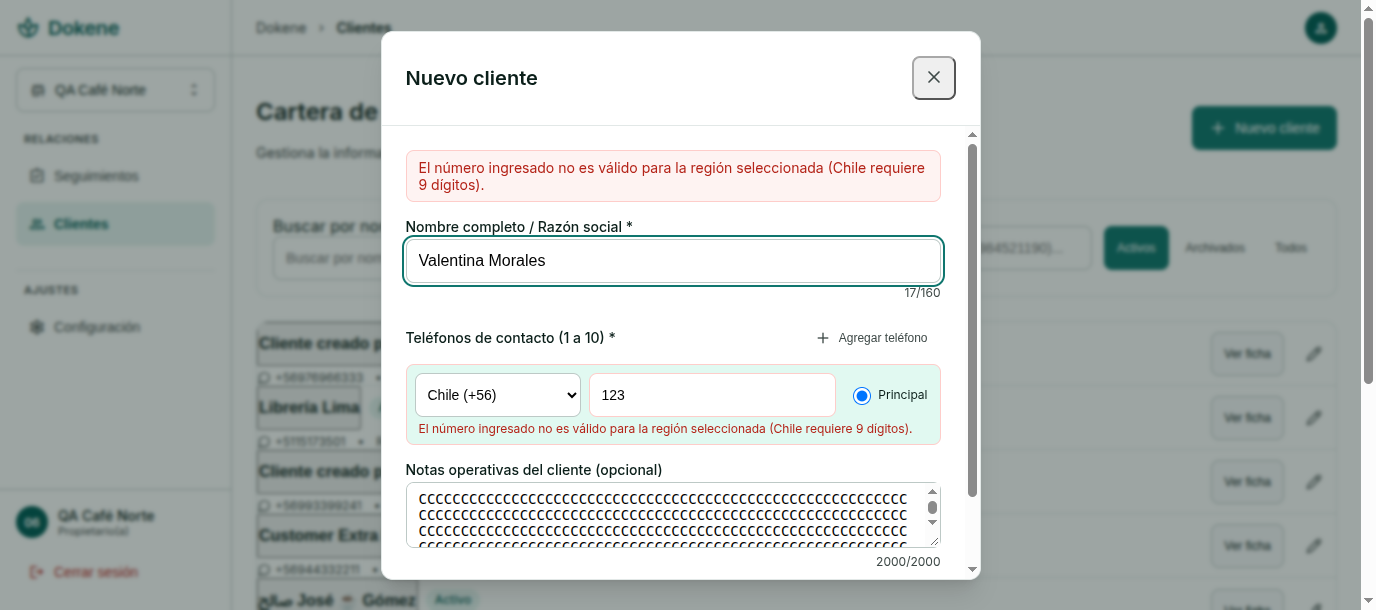
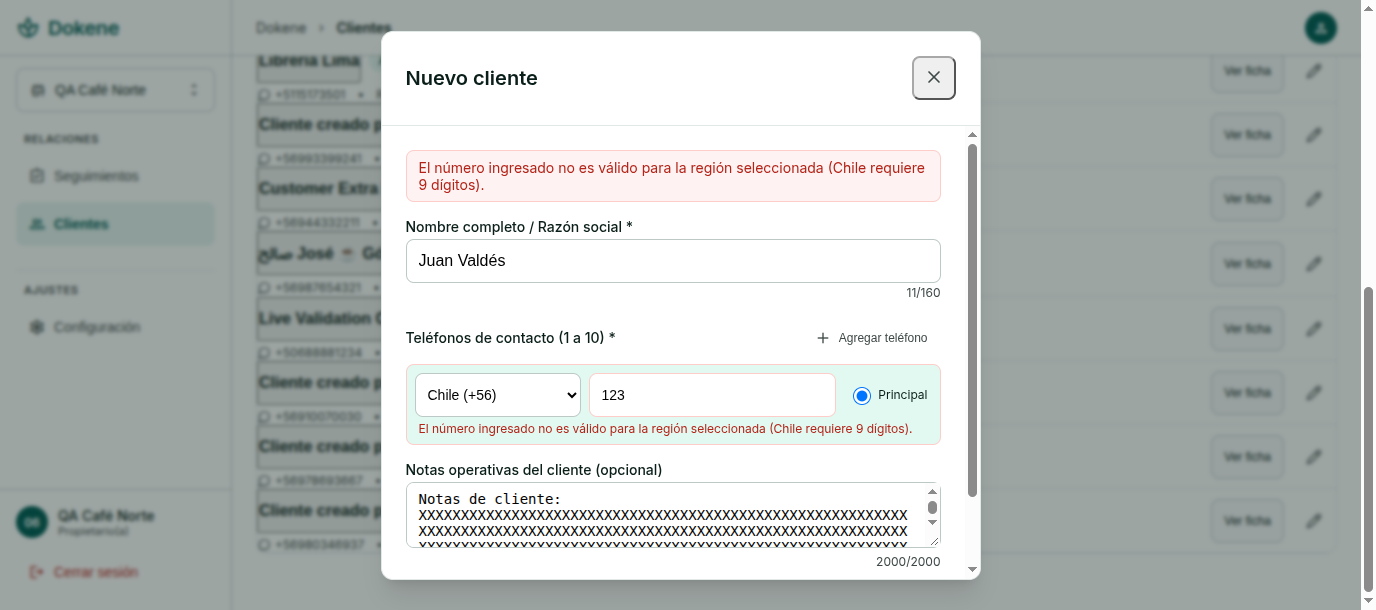
docs(qa): correct UI-08 sequential compound-invalid evidence and notes counter

diff --git a/docs/verification/issue-58-input-negative-paths-verification.md b/docs/verification/issue-58-input-negative-paths-verification.md
@@ -30,10 +30,13 @@ A total of **60 scenarios** were executed:
 ### Key Quality Observations & Verification:
 1. **Zero 500 Internal Server Errors & Zero Information Leaks**: No malformed JSON, wrong types, missing headers, SQL injection tokens, boundary values, or protocol mutations triggered an HTTP 500 error, stack trace, class name, or SQL exception in client responses.
 2. **Form Data Preservation**: Across all client validation rejections in `CustomerFormModal`, valid user-entered values (names, phone numbers, notes) remained intact in the DOM, preventing loss of work.
-3. **Compound-Invalid Scenarios & Remediation of Defect #1 (PR #73 / Issue #72)**:
-   - Previously, entering an invalid phone length for the region (e.g. `123` for Chile `+56`) resulted in a generic `"Error HTTP 400"`.
-   - In PR #73 (commit `2c4dde7`), pre-submit regional phone validation was implemented in `CustomerFormModal.tsx`.
-   - Verified on live commit `24bab9d06b`: A compound invalid submission (whitespace name + invalid phone `123` + 2000-character notes) correctly blocks submission client-side, renders an accessible field-level error linked via `aria-describedby` directly below the phone input (*"El número ingresado no es válido para la región seleccionada (Chile requiere 9 dígitos)."*), and displays the notes character counter `2000/500`. Visual proof captured in `07-compound-invalid-form-validation.png`.
+3. **Sequential Compound-Invalid Scenario & Remediation of Defect #1 (PR #73 / Issue #72)**:
+   - Evaluated the validation order and state preservation of `CustomerFormModal.tsx` in a real browser session:
+     1. Initial submission entered with whitespace-only name (`"   "`), invalid Chile phone (`123` with `+56`), and exactly 2000 characters of notes (`2000/2000`).
+     2. Form validation order halts first on empty/whitespace name (`if (!trimmedName)`), rendering top alert *"El nombre del cliente es obligatorio."* while preserving phone (`123`), notes content, and counter (`2000/2000`) in the DOM.
+     3. Correcting only the customer name to `"Juan Valdés"` while leaving the invalid phone `123` untouched and submitting again activates pre-submit regional phone validation.
+     4. Pre-submit phone validation renders an accessible field-level error linked via `aria-describedby="phone-error-0"` directly below the phone input (*"El número ingresado no es válido para la región seleccionada (Chile requiere 9 dígitos)."*), sets `aria-invalid="true"`, and preserves the corrected name, phone, notes, and counter (`2000/2000`).
+   - Visual proof captured and committed in `07-compound-invalid-form-validation.png`.
 4. **Multi-User & Membership RBAC Negative Scenarios**:
    - Tested using pre-provisioned synthetic identities (`testuser` OWNER, `testoperator` OPERATOR, `testviewer` VIEWER) in tenant `QA Café Norte`.
    - Unauthorized invite attempts by `OPERATOR` and `VIEWER` fail-closed with HTTP `403 Forbidden`.
@@ -83,7 +86,7 @@ A total of **60 scenarios** were executed:
 | **UI-05** | Customer Form | Duplicate normalized phone in same workspace (`+56987654321`) | Blocked with 409 Conflict; displays actionable conflict feedback; form data preserved | Backend returns 409 Conflict; UI renders: `Conflicto: el registro o número de contacto ya existe o está en conflicto.`; name and phone retained | **PASS** | `05-customer-duplicate-phone-conflict.png` |
 | **UI-06** | Purchases | Purchase description boundary (500 chars) & void workflow | 500-char description saved; voiding updates status to `Anulada` and recalculates latest purchase | Description accepted; void modal cleanly marks purchase as `Anulada`; latest purchase summary immediately updates to `Sin compras registradas` | **PASS** | `04-customer-unicode-success.png` |
 | **UI-07** | Follow-Up Search | Special characters & SQL injection tokens in search query (`'; DROP TABLE...`) | Handled safely via parameterized query; no errors or unhandled exceptions | UI gracefully shows empty state: `No se encontraron resultados para "'; DROP TABLE..."` | **PASS** | `06-followup-safe-query-handling.png` |
-| **UI-08** | Compound Form | Whitespace name + invalid phone (`123` for Chile `+56`) + 2000 chars notes | Multiple field errors identified simultaneously; accessible error linked via `aria-describedby`; form data retained | Pre-submit validation blocks request. Field-level error appears below phone input (*"El número ingresado no es válido para la región seleccionada (Chile requiere 9 dígitos)."*). Character counter displays `2000/500`. Work preserved. | **PASS** *(Fix for #72 verified)* | `07-compound-invalid-form-validation.png` |
+| **UI-08** | Sequential Compound Form | (1) Whitespace name (`"   "`) + invalid Chile phone (`123`) + 2000 chars notes; (2) Correct name to `"Juan Valdés"`, leaving phone `123` unchanged | Initial submission halts on name requirement and preserves phone & notes; second submission halts on regional phone format, displaying inline error linked via `aria-describedby` while preserving all inputs and counter (`2000/2000`) | Step 1: Blocks with alert `El nombre del cliente es obligatorio.`; phone `123` and notes preserved. Step 2: Phone field displays inline `aria-describedby="phone-error-0"` error (*"El número ingresado no es válido para la región seleccionada (Chile requiere 9 dígitos)."*); counter shows `2000/2000`. No data lost. | **PASS** *(Fix for #72 verified)* | `07-compound-invalid-form-validation.png` |
 
 ---
 
@@ -162,10 +165,10 @@ Executed against live environment at commit `24bab9d06b83d64185136adc6961a69b5f5
 - **Resolution**: Tracked in [Issue #72](https://github.com/stevdrey/dokene/issues/72) and fixed in [PR #73](https://github.com/stevdrey/dokene/pull/73) (`2c4dde7`).
 - **Verification on main (`24bab9d`)**:
   - `CustomerFormModal.tsx` validates phone numbers against country calling code rules before submission.
-  - An accessible error message is rendered directly below the input field and linked via `aria-describedby="phone-error"`:
+  - An accessible error message is rendered directly below the input field and linked via `aria-describedby="phone-error-0"`:
     *"El número ingresado no es válido para la región seleccionada (Chile requiere 9 dígitos)."*
-  - Tested in both isolated and compound-invalid scenarios (see UI-08 and `07-compound-invalid-form-validation.png`).
-  - Work and entered field values remain preserved in form state.
+  - Tested via sequential compound-invalid recovery flow (see UI-08 and `07-compound-invalid-form-validation.png`).
+  - Work and entered field values (name, phone, and 2000-character notes with counter `2000/2000`) remain preserved in form state.
 
 ---
 
@@ -178,4 +181,4 @@ All screenshots captured during testing are stored in `docs/verification/issue-5
 4. `04-customer-unicode-success.png` — Full Unicode (Arabic RTL, accents, emoji) customer profile view.
 5. `05-customer-duplicate-phone-conflict.png` — Actionable conflict feedback on duplicate phone submission.
 6. `06-followup-safe-query-handling.png` — Follow-up queue search handling SQL injection and special characters safely.
-7. `07-compound-invalid-form-validation.png` — Compound-invalid scenario verifying resolution of Issue #72 / PR #73 (accessible field error and counter).
+7. `07-compound-invalid-form-validation.png` — Sequential compound-invalid recovery flow verifying resolution of Issue #72 / PR #73 (accessible phone field error, preserved inputs, and accurate 2000/2000 counter).
